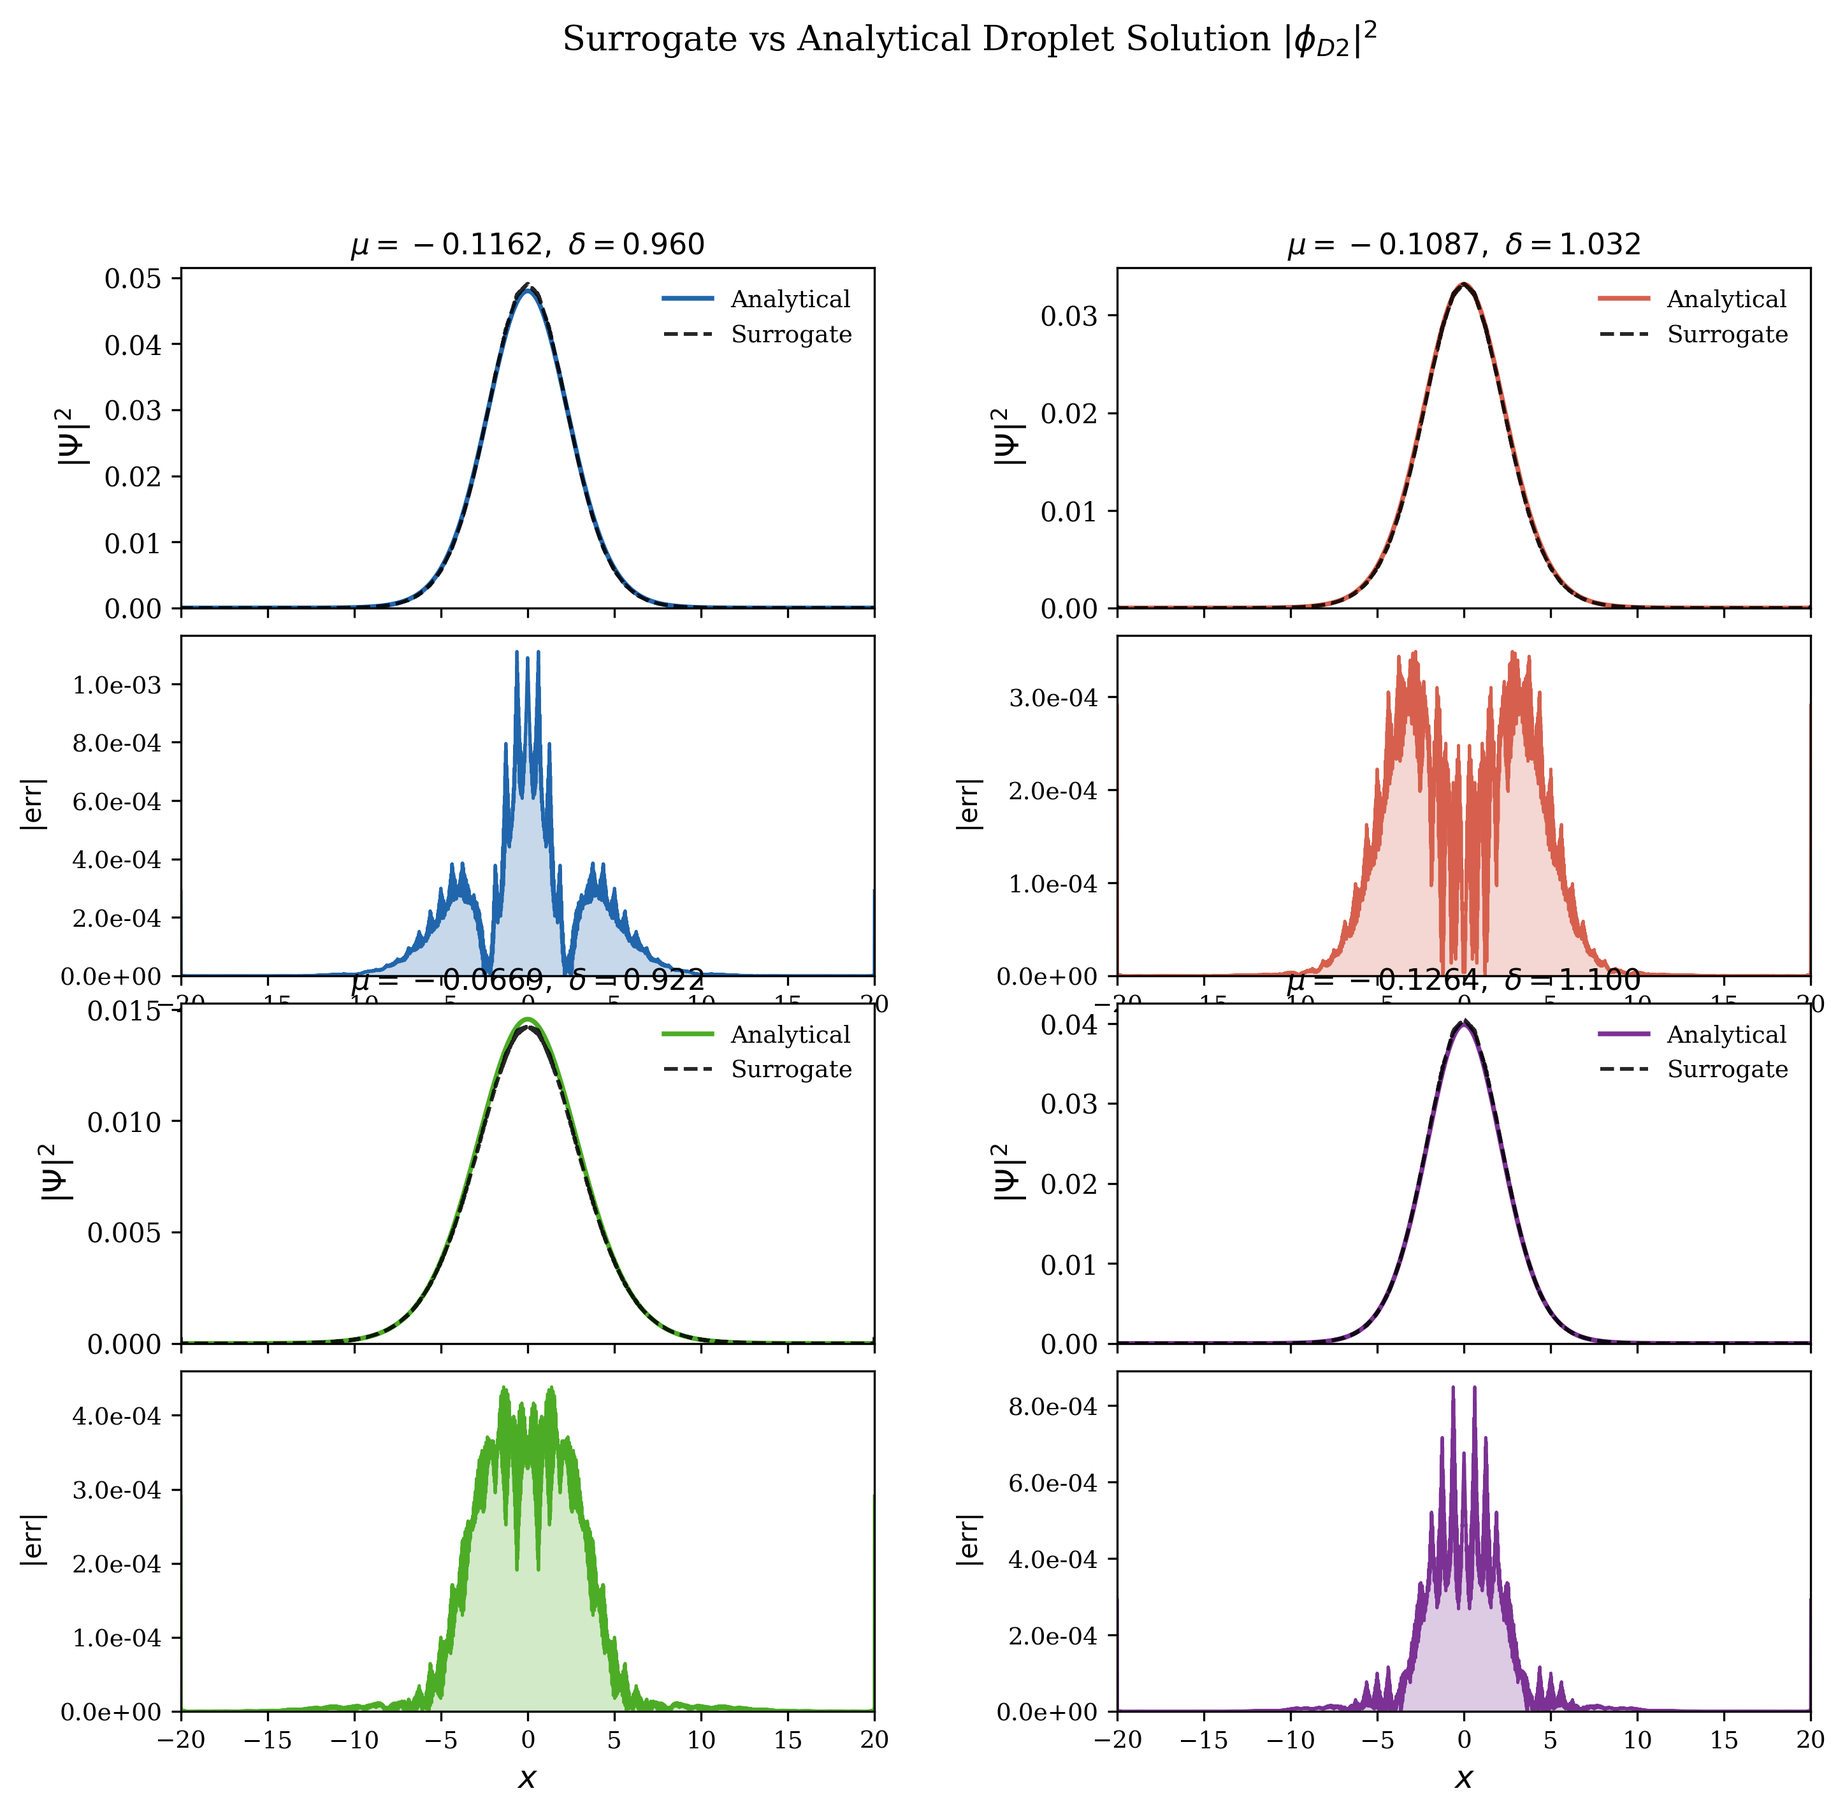
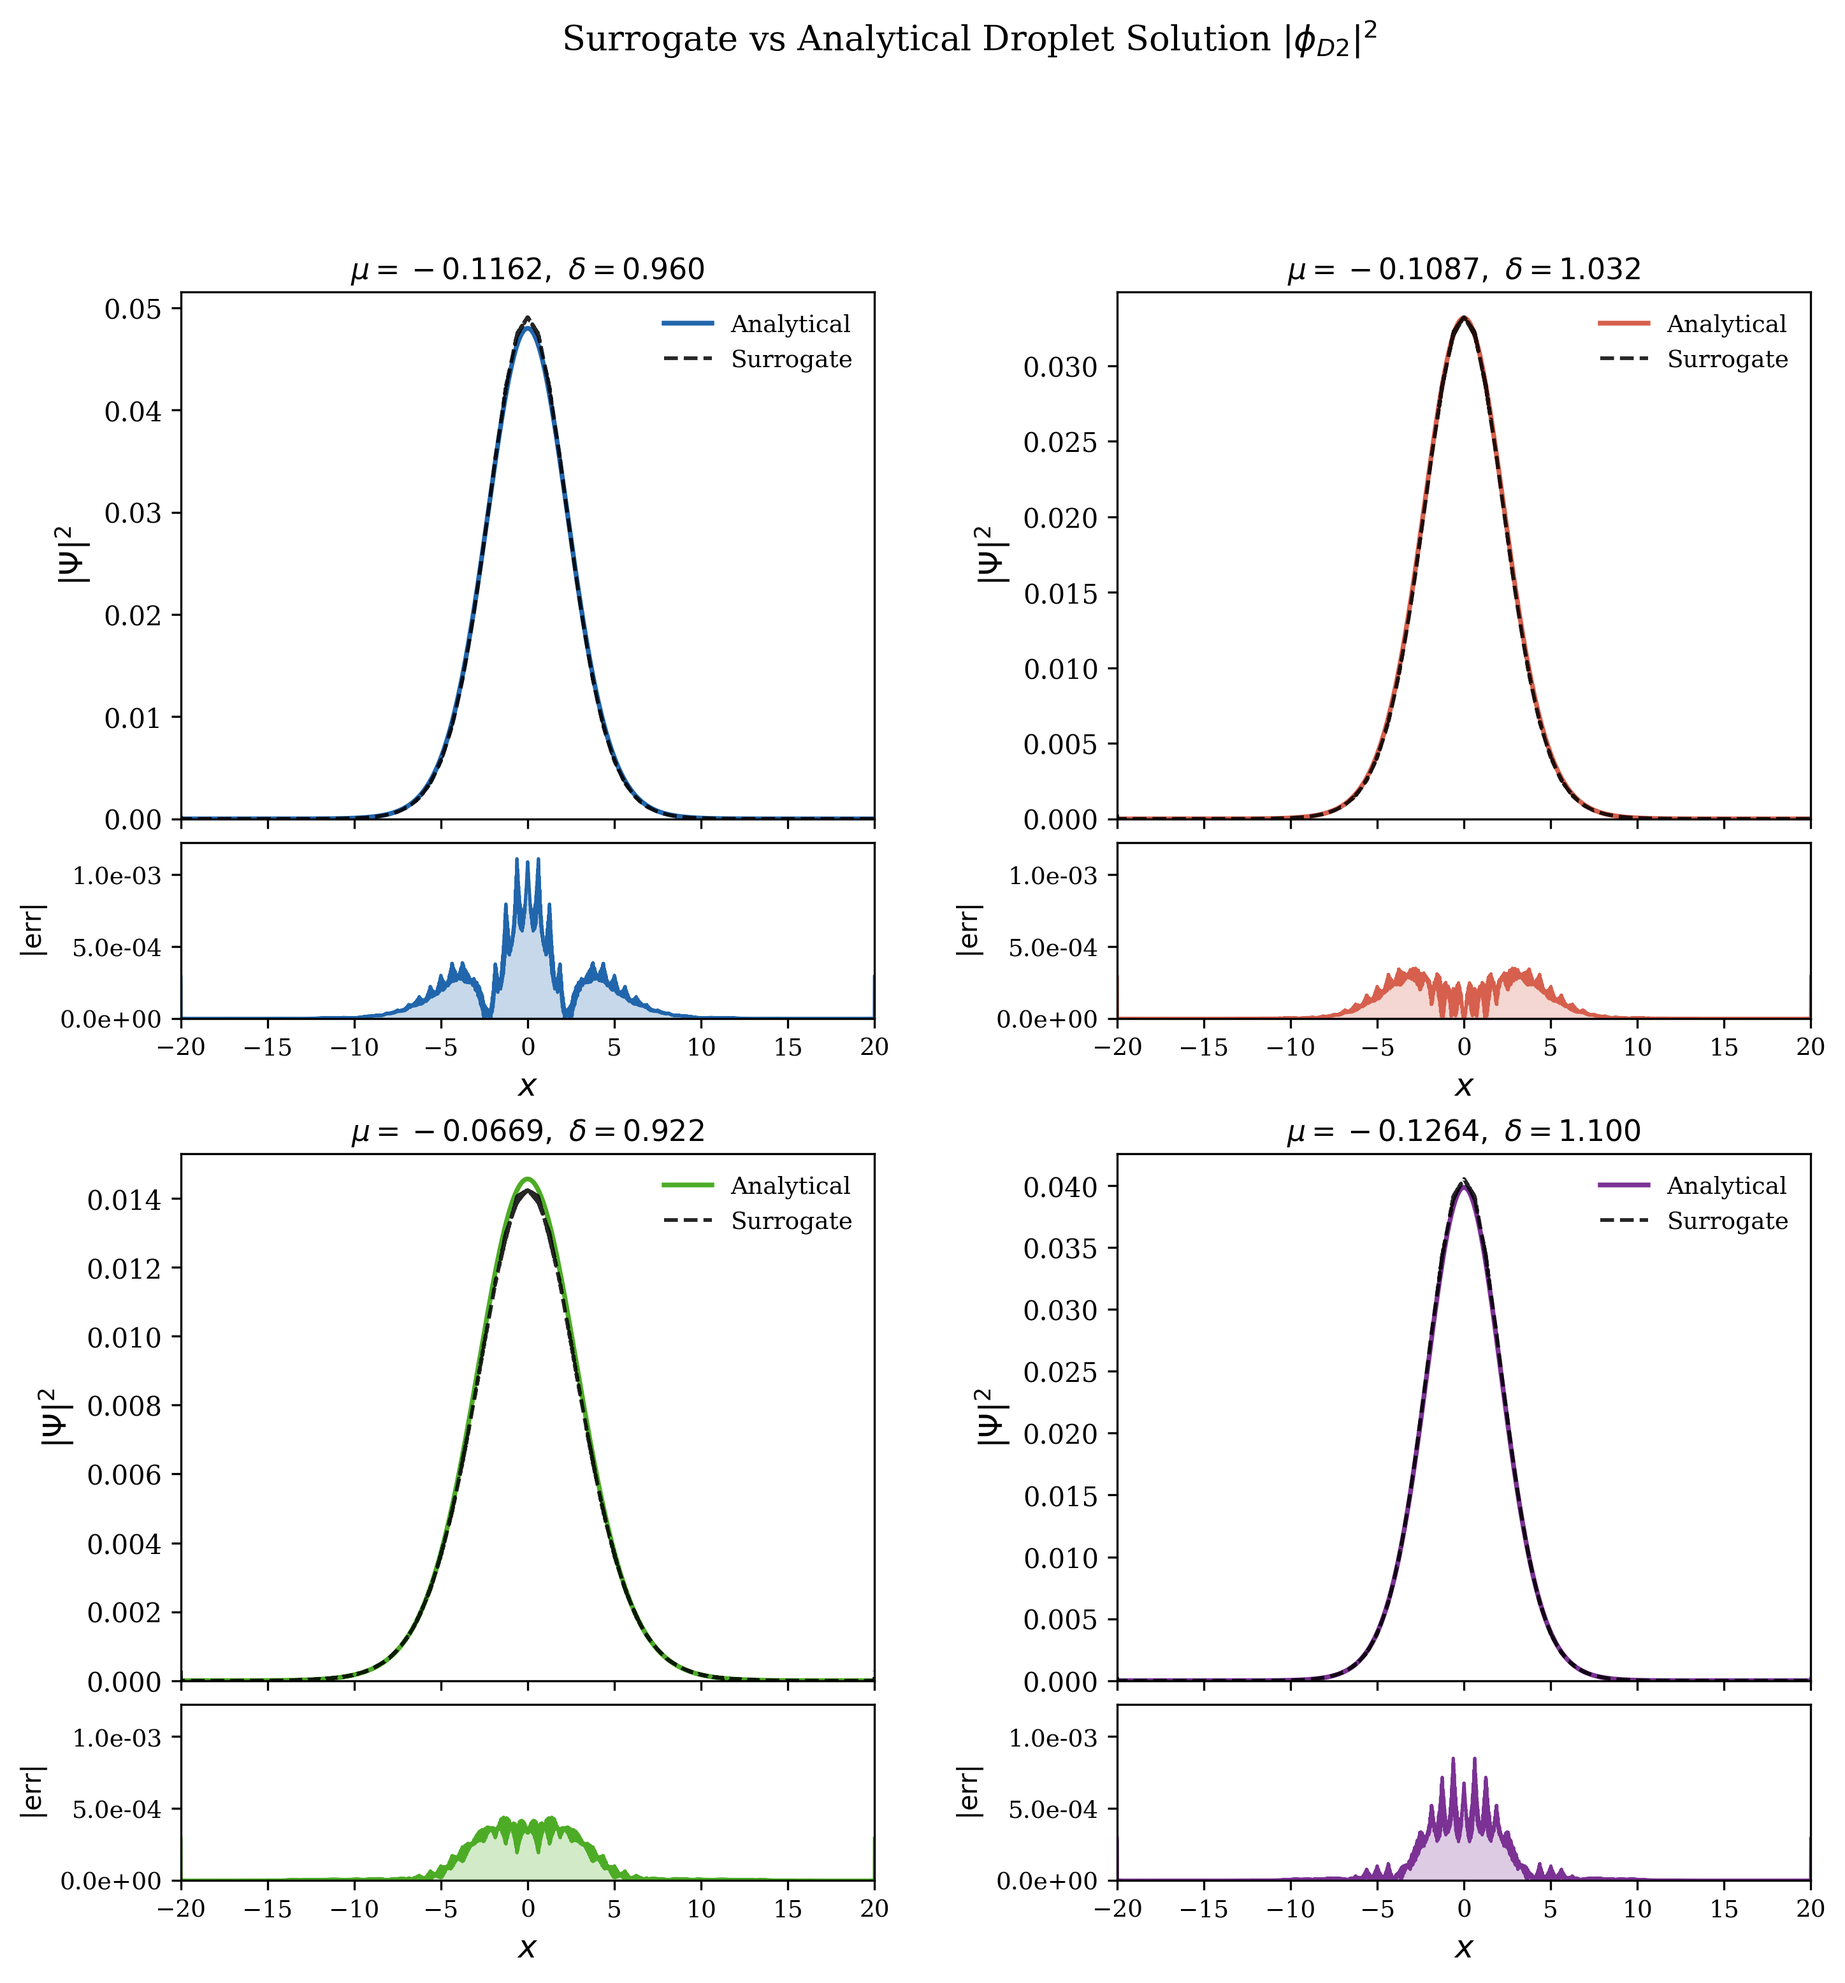
Revise the result plot with better design

diff --git a/libs/evaluate_module.py b/libs/evaluate_module.py
@@ -177,18 +177,7 @@ def plot_results(x, params, phi_pred, phi_true,
     
 
 def plot_results_witherror(x, params, phi_pred, phi_true,
-                 indices=None, save_path=None):
-    """
-    Plot 4 samples: prediction vs ground truth + absolute error panel.
-
-    Args:
-        x          : (N,)   spatial grid
-        params     : (M, 2) [mu, delta]
-        phi_pred   : (M, N)
-        phi_true   : (M, N)
-        indices    : list of 4 indices to plot (default: spread across dataset)
-        save_path  : if given, saves figure
-    """
+                           indices=None, save_path=None):
     if indices is None:
         M = phi_pred.shape[0]
         indices = [0, M // 3, 2 * M // 3, M - 1]
@@ -208,24 +197,38 @@ def plot_results_witherror(x, params, phi_pred, phi_true,
 
     colors = ["#2166ac", "#d6604d", "#4dac26", "#7b3294"]
 
-    # ── 2 cols × 4 rows, each sample = (main + error) stacked ──
-    fig = plt.figure(figsize=(11, 10))
-    gs  = fig.add_gridspec(
-        nrows=4, ncols=2,          # 2 rows per sample × 2 columns
-        hspace=0.08,               # tight gap between main & error panels
+    fig = plt.figure(figsize=(11, 11))
+
+    # 5 rows: [main, error, SPACER, main, error]
+    # height_ratios controls the relative height of each row
+    gs = fig.add_gridspec(
+        nrows=5, ncols=2,
+        height_ratios=[3, 1, 0.5, 3, 1],  # spacer row (index 2) separates pairs
+        hspace=0.08,                        # tight within each pair
         wspace=0.35,
     )
 
-    # map flat index → (col, row_pair)
-    # sample 0 → col 0, rows 0-1  |  sample 1 → col 1, rows 0-1
-    # sample 2 → col 0, rows 2-3  |  sample 3 → col 1, rows 2-3
-    layout = [(0, 0), (1, 0), (0, 2), (1, 2)]   # (col, start_row)
+    # (col, main_row) — error panel is always main_row + 1
+    layout = [(0, 0), (1, 0), (0, 3), (1, 3)]
+
+    # ── pre-compute global error max for shared y-axis ────────
+    global_max = max(
+        np.abs(phi_pred[idx] ** 2 - phi_true[idx] ** 2).max()
+        for idx in indices
+    )
+
+    ax_err_ref = None  # for sharey across all error panels
 
     for i, (idx, color) in enumerate(zip(indices, colors)):
-        col, row = layout[i]
+        col, main_row = layout[i]
 
-        ax_main = fig.add_subplot(gs[row,     col])
-        ax_err  = fig.add_subplot(gs[row + 1, col], sharex=ax_main)
+        ax_main = fig.add_subplot(gs[main_row,     col])
+        ax_err  = fig.add_subplot(gs[main_row + 1, col],
+                                  sharex=ax_main,
+                                  sharey=ax_err_ref)   # unified y-axis
+
+        if ax_err_ref is None:
+            ax_err_ref = ax_err
 
         mu    = params[idx, 0]
         delta = params[idx, 1]
@@ -239,24 +242,20 @@ def plot_results_witherror(x, params, phi_pred, phi_true,
                      linestyle="-",  label="Analytical", linewidth=1.8)
         ax_main.plot(x, pred_sq, color="k",
                      linestyle="--", label="Surrogate",  linewidth=1.4, alpha=0.85)
-
-        ax_main.set_title(
-            rf"$\mu={mu:.4f},\ \delta={delta:.3f}$", pad=5
-        )
+        ax_main.set_title(rf"$\mu={mu:.4f},\ \delta={delta:.3f}$", pad=5)
         ax_main.set_xlim(x[0], x[-1])
         ax_main.set_ylim(bottom=0)
         ax_main.set_ylabel(r"$|\Psi|^2$")
         ax_main.legend(frameon=False)
-        ax_main.tick_params(labelbottom=False)   # hide x-ticks on main
+        ax_main.tick_params(labelbottom=False)
 
         # ── error panel ──────────────────────────────────────
         ax_err.fill_between(x, abs_err, alpha=0.25, color=color)
         ax_err.plot(x, abs_err, color=color, linewidth=1.2)
-
         ax_err.set_xlim(x[0], x[-1])
-        ax_err.set_ylim(bottom=0)
+        ax_err.set_ylim(0, global_max * 1.1)
         ax_err.set_xlabel(r"$x$")
-        ax_err.set_ylabel(r"$|{{\rm err}}|$", fontsize=10)
+        ax_err.set_ylabel(r"$|\mathrm{err}|$", fontsize=10)
         ax_err.tick_params(labelsize=9)
         ax_err.yaxis.set_major_formatter(
             plt.FuncFormatter(lambda v, _: f"{v:.1e}")
@@ -266,6 +265,8 @@ def plot_results_witherror(x, params, phi_pred, phi_true,
         r"Surrogate vs Analytical Droplet Solution $|\phi_{D2}|^2$",
         fontsize=13, y=1.01
     )
+
+    plt.tight_layout()
 
     if save_path:
         fig.savefig(save_path, dpi=300, bbox_inches="tight")

diff --git a/libs/config.py b/libs/config.py
@@ -72,6 +72,6 @@ config["log_path"] = f"./logs/train_{config['eq_name']}_{now:%Y-%m-%d_%H%M%S}.lo
 config["sol_name"] = f"./data/solution_{config['eq_name']}.h5"
 config["save_path"] = f"./result/{config['eq_name']}_sampled_plot.png"
 config["save_path_witherror"] = f"./result/{config['eq_name']}_witherror_sampled_plot.png"
-config["model_save_path"] = f"./checkpoints/best_model.pt" 
 
+config["model_save_path"] = f"./checkpoints/best_model.pt" 
 config["error_save_path"] = f"./result/{config['eq_name']}_RelL2.npy" 

diff --git a/main.py b/main.py
@@ -105,8 +105,8 @@ def main():
 
         #params = np.concatenate([test_data['mu'][:, None], test_data['delta'][:, None]], axis = 1) 
       
-        plot_results(x_ref, params_all, phi_pred, phi_true,
-                 indices=None, save_path=config["save_path"]) 
+        plot_results_witherror(x_ref, params_all, phi_pred, phi_true,
+                 indices=None, save_path=config["save_path_witherror"]) 
 
 if __name__ == "__main__":
     main() 
